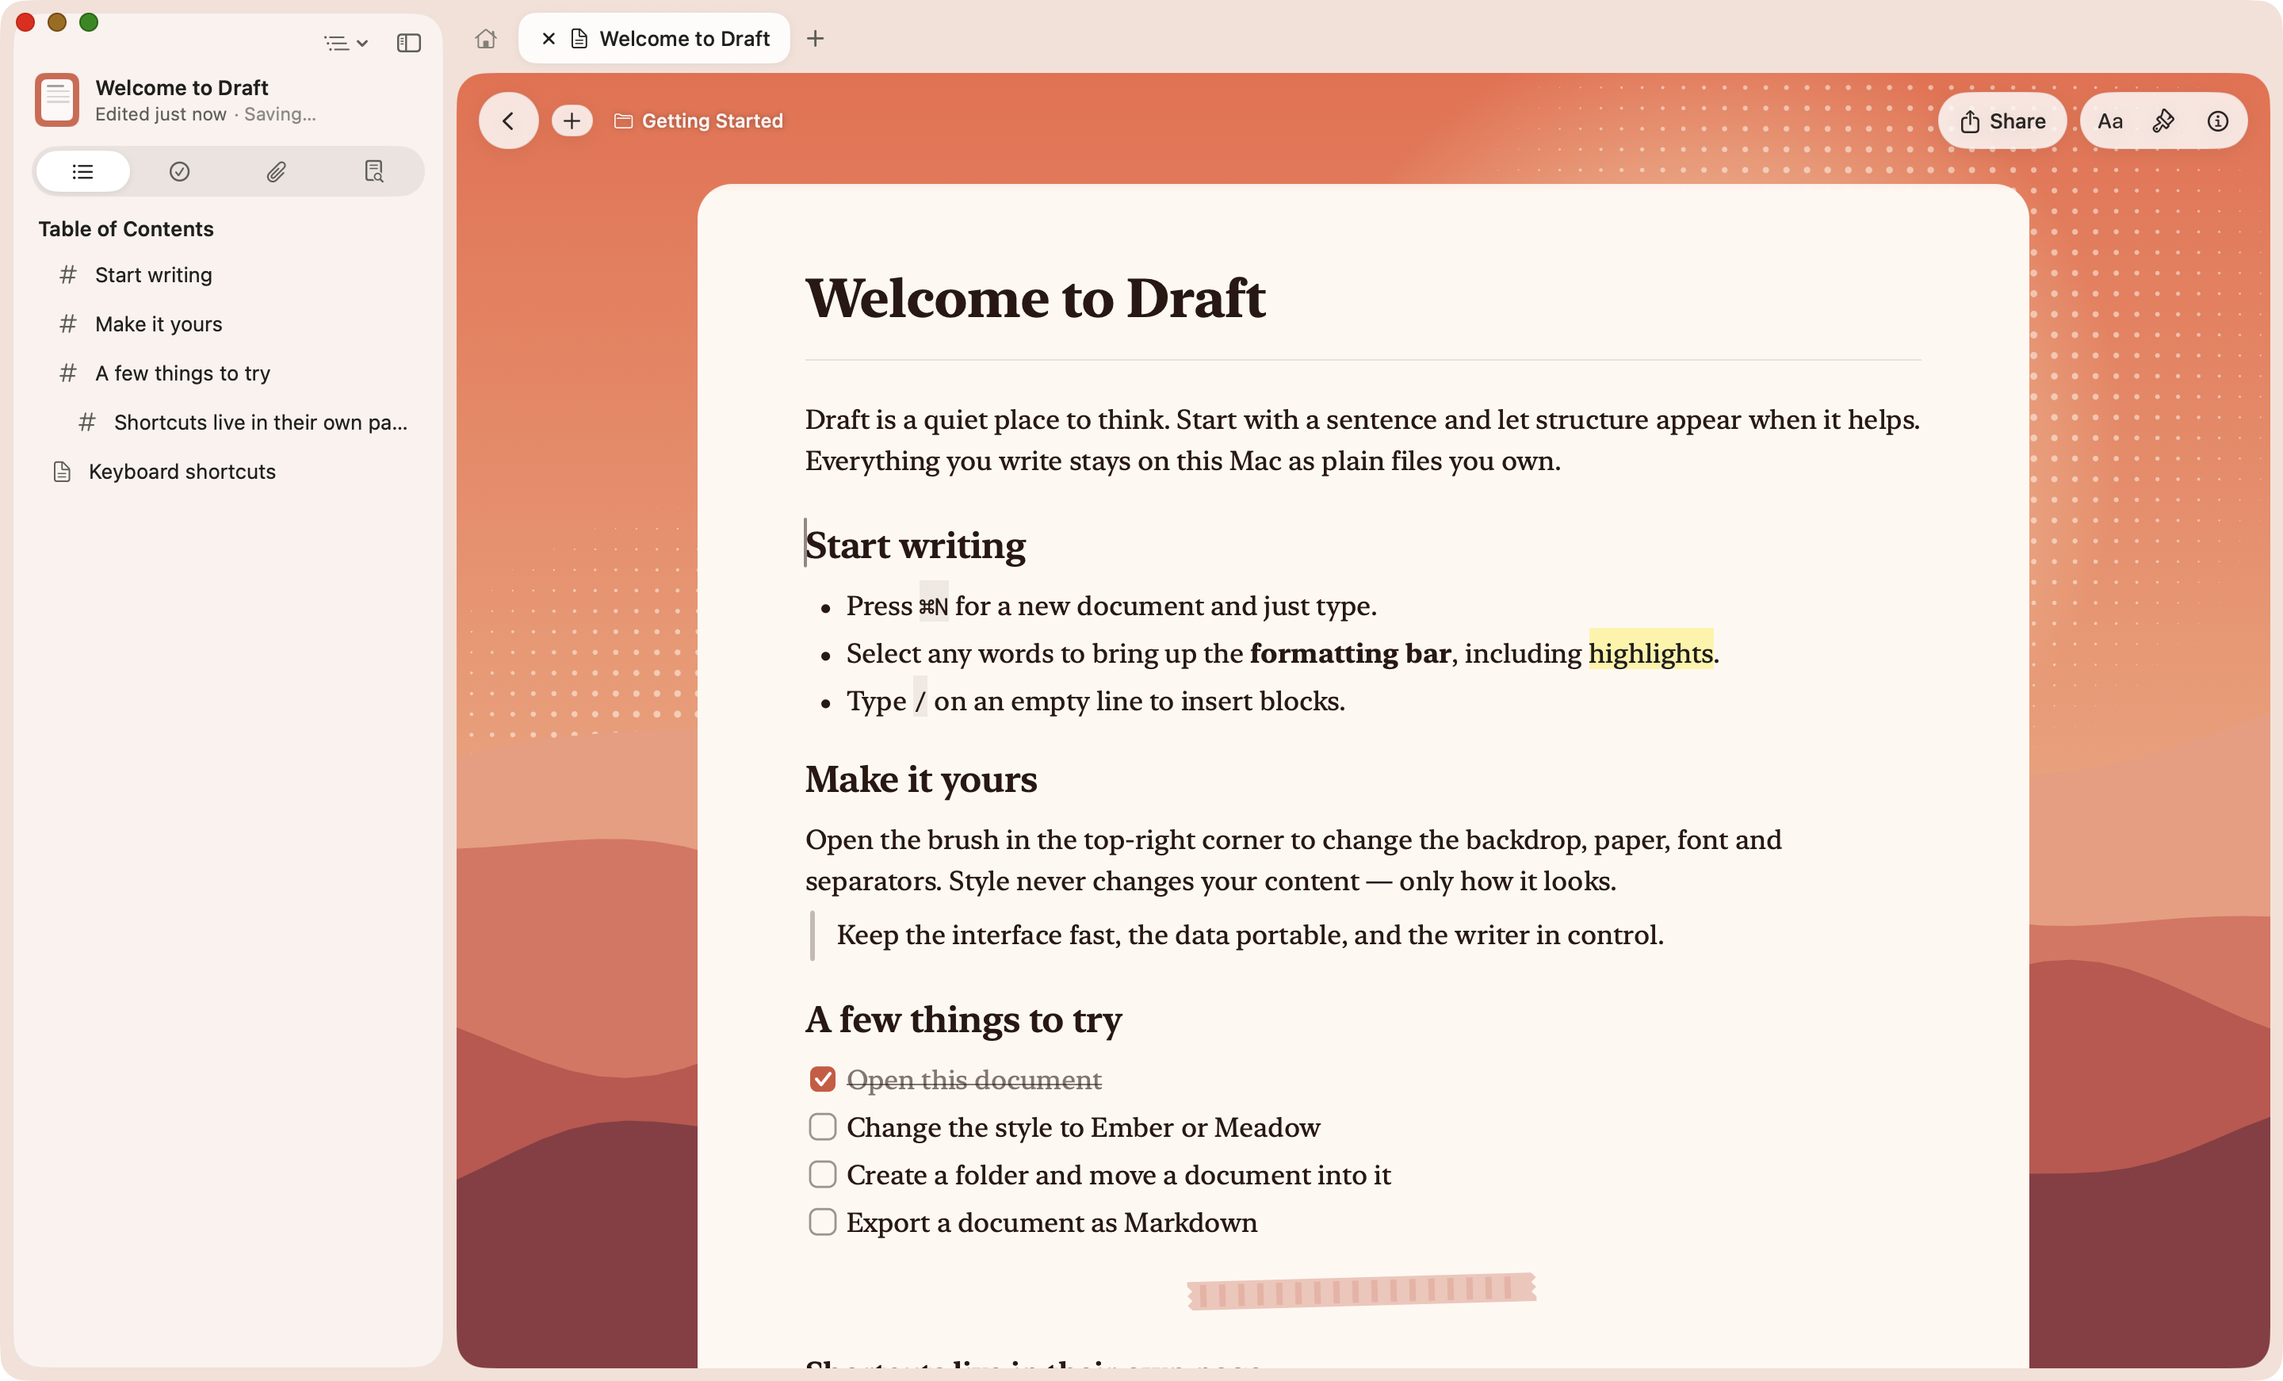
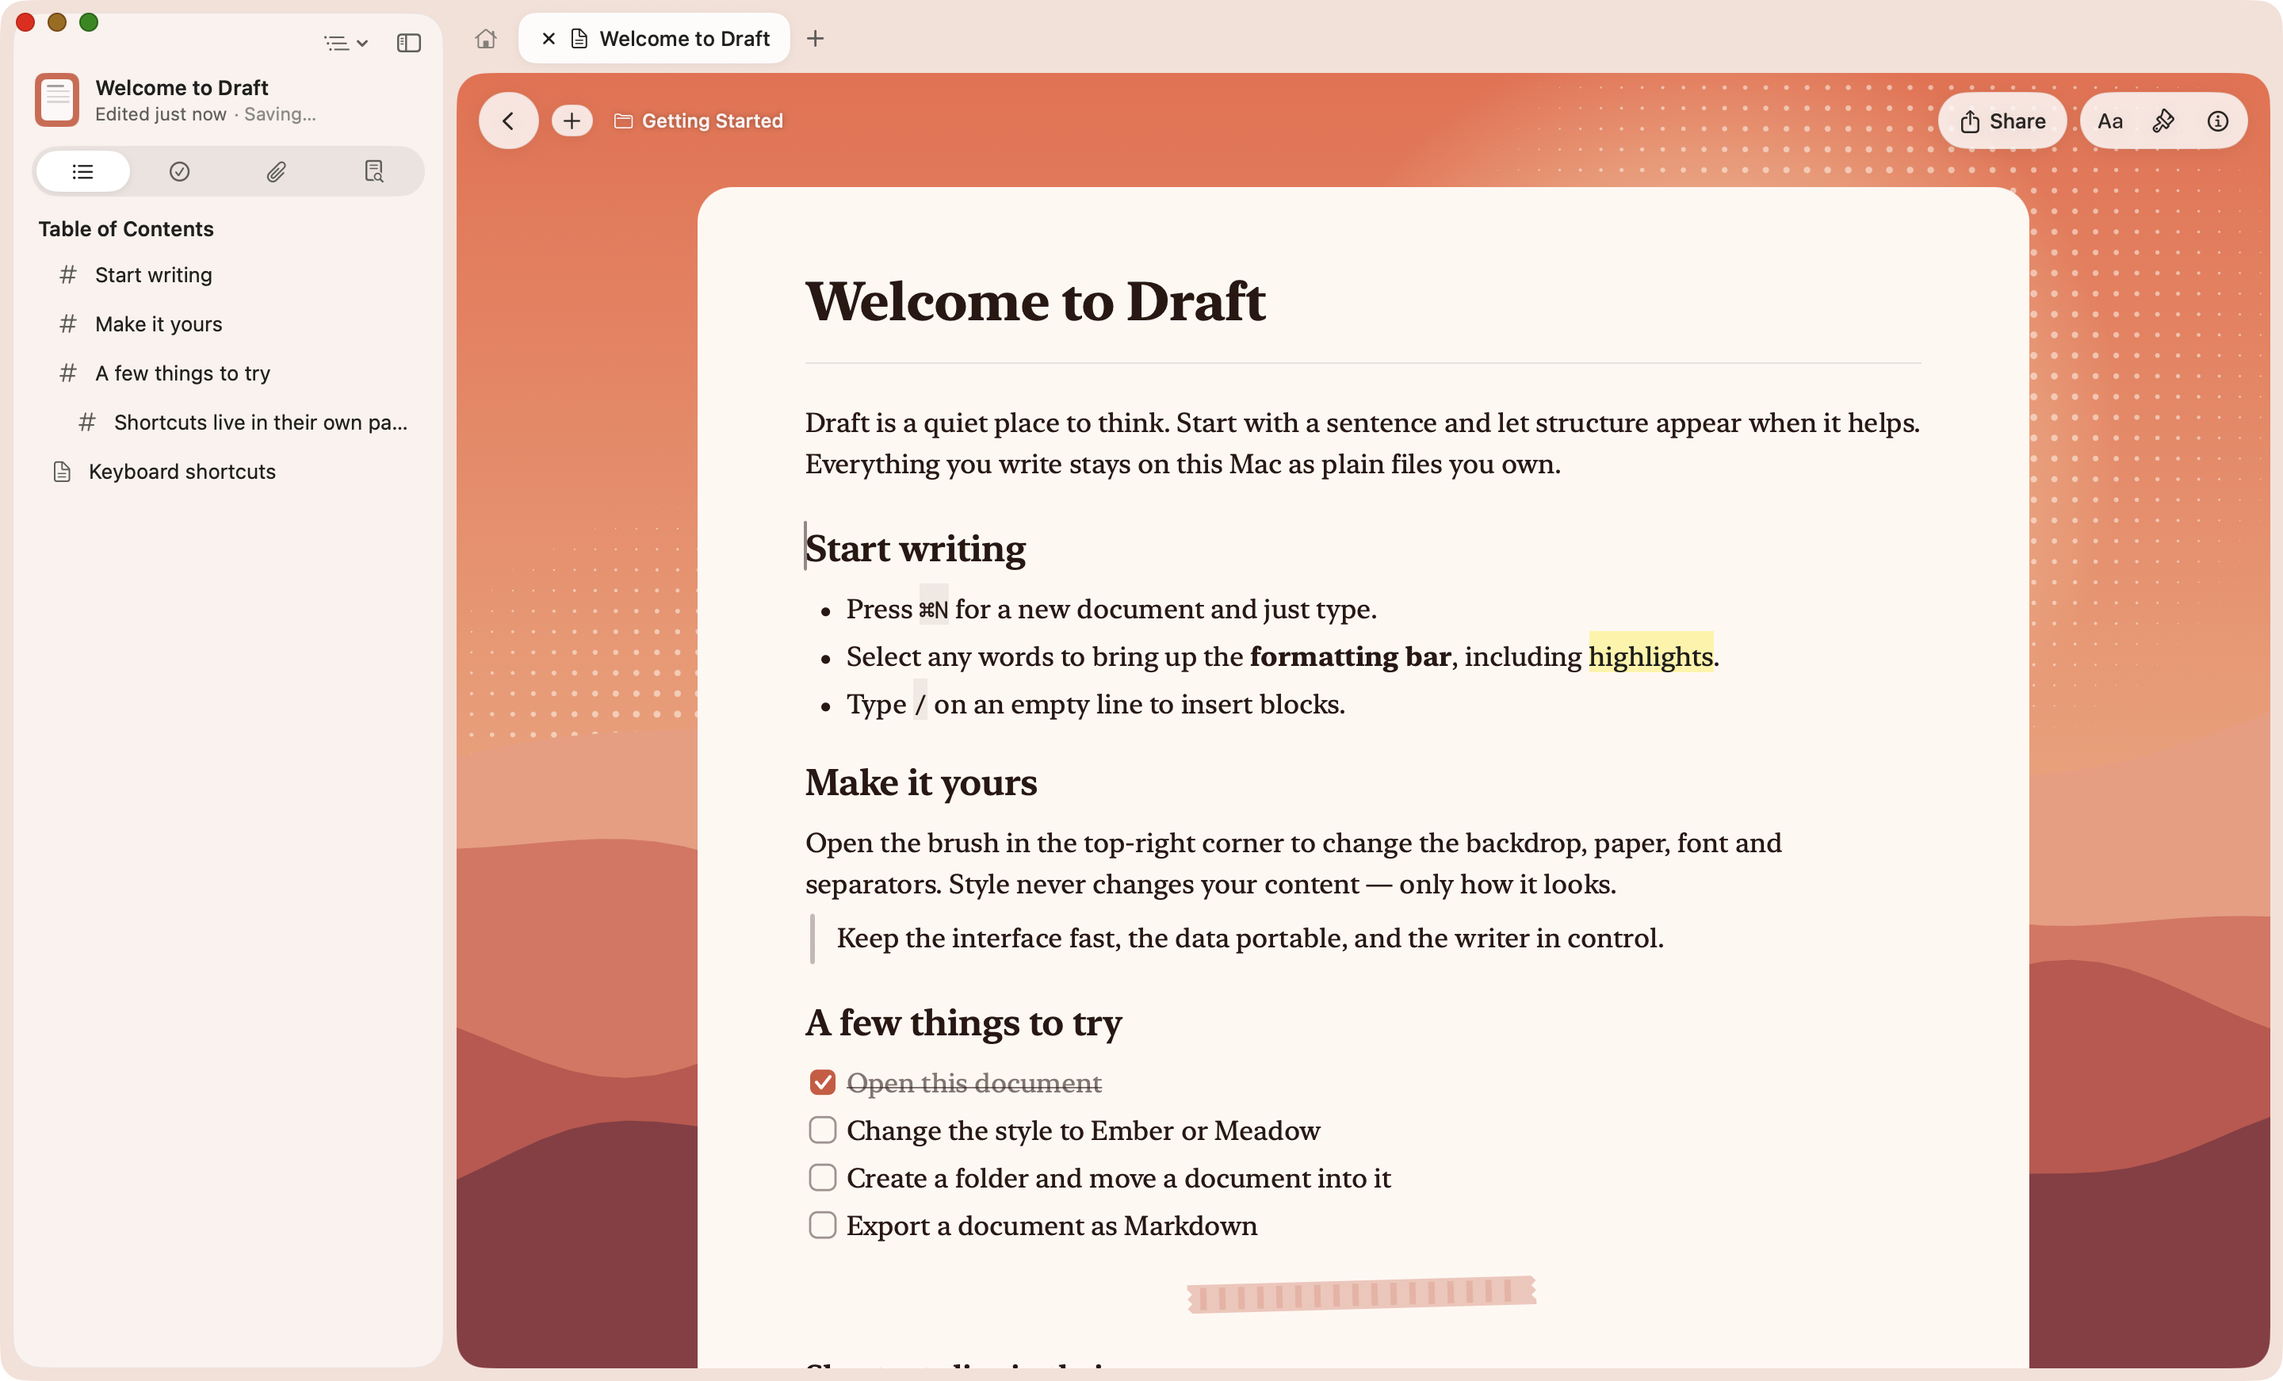
v0.2: hide stale handle and text bar in block mode; docs, roadmap and fresh screenshots

diff --git a/Sources/Draft/Automation.swift b/Sources/Draft/Automation.swift
@@ -173,10 +173,74 @@ enum Automation {
         m.openView(ViewRef(kind: "settings", section: "appearance"))
         await capture("settings-appearance-dark")
         m.setSettings { $0.theme = "light" }
-        // Narrow window
+        var checks: [String: String] = [:]
+        // Scrolled: text must start below the top controls.
+        m.setSettings { $0.libraryView = .gallery }
         m.openView(.doc(welcome.id))
-        w.setFrame(NSRect(x: 60, y: 60, width: 720, height: 860), display: true)
+        await wait(0.8)
+        if let ed = m.editors[welcome.id] {
+            ed.scrollView.contentView.scroll(to: NSPoint(x: 0, y: 260)); ed.scrollView.reflectScrolledClipView(ed.scrollView.contentView)
+            await capture("document-scrolled")
+            checks["normal.scrollTopBelowControls"] = "\(ed.bounds.height - ed.scrollView.frame.maxY)"
+            // Block selection + handle
+            let c = ed.controller
+            ed.scrollView.contentView.scroll(to: .zero)
+            w.makeFirstResponder(c.textView)
+            if let pr = c.paragraph(withId: (c.document().content ?? [])[1].id ?? "") {
+                c.textView.setSelectedRange(NSRange(location: pr.location, length: 0))
+                c.enterBlockMode(); c.stepBlockSelection(1, extend: true)
+                let r = c.layout.firstLineRect(pr)!.rect
+                ed.updateHandle(at: c.textView.convert(NSPoint(x: 10, y: r.midY + c.textView.textContainerOrigin.y), to: ed.paperView))
+                await capture("block-selection")
+                c.exitBlockMode()
+            }
+            // Backups list
+            m.flushAll()
+            m.infoTab = "backups"; m.panel = .info
+            await capture("backups-panel")
+            m.panel = nil; m.infoTab = "info"
+        }
+        // Search results
+        m.activateTab(m.library.tabs[0].id)
+        m.librarySearchOpen = true; m.librarySearch = "markdown"
+        await capture("search-results")
+        m.librarySearch = ""; m.librarySearchOpen = false
+        // Recently Deleted
+        if let morning = m.library.docs.values.first(where: { $0.title == "Morning pages" }) {
+            m.requestDelete(morning.id)
+            m.openView(ViewRef(kind: "trash"))
+            await capture("recently-deleted")
+            m.restore(morning.id)
+            m.activateTab(m.library.tabs[0].id)
+        }
+        // Narrow window: scrolled text and the slash menu at the bottom edge.
+        m.openView(.doc(welcome.id))
+        w.setFrame(NSRect(x: 60, y: 60, width: 720, height: 640), display: true)
+        await wait(0.6)
         await capture("narrow-document")
+        if let ed = m.editors[welcome.id] {
+            let c = ed.controller
+            checks["narrow.scrollTopBelowControls"] = "\(ed.bounds.height - ed.scrollView.frame.maxY)"
+            w.makeFirstResponder(c.textView)
+            c.textView.setSelectedRange(NSRange(location: (c.textView.string as NSString).length, length: 0))
+            c.textView.insertNewline(nil)
+            await type("/", into: c)
+            c.textView.scrollRangeToVisible(c.textView.selectedRange()); c.slash.position()
+            await capture("narrow-slash-menu")
+            checks["narrow.slashInside"] = ed.paperView.visibleRect.insetBy(dx: -1, dy: -1).contains(c.slash.frame) ? "yes" : "no \(c.slash.frame) \(ed.paperView.visibleRect)"
+            c.slash.close()
+            c.textView.undoManager?.undo(); c.textView.undoManager?.undo()
+            w.setFrame(NSRect(x: 60, y: 60, width: 1440, height: 900), display: true)
+            await wait(0.6)
+            c.textView.setSelectedRange(NSRange(location: (c.textView.string as NSString).length, length: 0))
+            c.textView.insertNewline(nil)
+            await type("/", into: c)
+            c.textView.scrollRangeToVisible(c.textView.selectedRange()); c.slash.position()
+            checks["normal.slashInside"] = ed.paperView.visibleRect.insetBy(dx: -1, dy: -1).contains(c.slash.frame) ? "yes" : "no"
+            await capture("slash-menu")
+            c.slash.close()
+        }
+        if let d = try? JSONSerialization.data(withJSONObject: checks, options: [.prettyPrinted, .sortedKeys]) { try? d.write(to: out.appendingPathComponent("layout-checks.json")) }
         // Export
         m.export(docIds: [welcome.id], name: "Welcome export", groupByFolder: false, to: URL(fileURLWithPath: NSTemporaryDirectory()))
         await wait(0.3)

diff --git a/Sources/Draft/LibraryView.swift b/Sources/Draft/LibraryView.swift
@@ -65,6 +65,7 @@ struct LibraryView: View {
             }
             Text(title).font(.system(size: 17, weight: .semibold)).foregroundStyle(t.text)
             Spacer()
+            if view.kind != "trash" && view.kind != "shared" {
             PillGroup {
                 PillButton(symbol: "rectangle.grid.2x2", label: "Gallery (⌃⌘1)", isActive: model.library.settings.libraryView == .gallery) { model.setSettings { $0.libraryView = .gallery } }
                 PillButton(symbol: "square.grid.3x3", label: "Grid (⌃⌘2)", isActive: model.library.settings.libraryView == .grid) { model.setSettings { $0.libraryView = .grid } }
@@ -88,6 +89,7 @@ struct LibraryView: View {
                 } label: { Image(systemName: "arrow.up.arrow.down").frame(width: 30, height: 30) }
                 .menuStyle(.borderlessButton).menuIndicator(.hidden).fixedSize().foregroundStyle(t.pillText).tint(t.pillText).tint(t.pillText)
                 .accessibilityLabel("Sort")
+            }
             }
             PillGroup {
                 Menu {

diff --git a/Sources/DraftEditor/DocumentEditorView.swift b/Sources/DraftEditor/DocumentEditorView.swift
@@ -43,6 +43,7 @@ public final class DocumentEditorView: NSView, NSTextViewDelegate {
     public let controller = EditorController()
     public let scrollView = NSScrollView()
     let paper = PaperView()
+    public var paperView: NSView { paper }
     let paperBackground = NSView()
     let coverView = NSImageView()
     public let titleView: NSTextView
@@ -195,6 +196,7 @@ public final class DocumentEditorView: NSView, NSTextViewDelegate {
         guard !inLayout else { return }
         inLayout = true
         defer { inLayout = false }
+        if !handle.isDragging { handle.isHidden = true } // the next mouse move places it again
         let width = scrollView.contentSize.width
         guard width > 0 else { return }
         let margin: CGFloat = width < 640 ? 10 : 28

diff --git a/Sources/DraftEditor/SelectionToolbar.swift b/Sources/DraftEditor/SelectionToolbar.swift
@@ -157,7 +157,7 @@ public final class SelectionToolbar: NSView {
     var shouldShow: Bool {
         let tv = controller.textView
         let sel = tv.selectedRange()
-        guard sel.length > 0, controller.overlayHost != nil else { return false }
+        guard sel.length > 0, controller.overlayHost != nil, !controller.isBlockMode else { return false }
         if let d = dismissedSelection, d == sel { return false }
         // Pure attachment selections (one image/card) have no text to format.
         if sel.length == 1, controller.storage.attribute(.attachment, at: sel.location, effectiveRange: nil) != nil { return false }

diff --git a/Sources/Draft/DocumentScreen.swift b/Sources/Draft/DocumentScreen.swift
@@ -36,7 +36,7 @@ struct DocumentScreen: View {
                         switch p {
                         case .format: FormatPanel(docId: docId)
                         case .style: StylePanel(docId: docId)
-                        case .info: InfoPanel(docId: docId)
+                        case .info: InfoPanel(docId: docId, tab: $model.infoTab)
                         case .share: SharePanel(docId: docId)
                         }
                     }

diff --git a/Tests/DraftEditorTests/BlockOpsTests.swift b/Tests/DraftEditorTests/BlockOpsTests.swift
@@ -64,6 +64,7 @@ final class BlockOpsTests: XCTestCase {
         tv.moveDownAndModifySelection(nil)
         XCTAssertEqual(c.blockSelectionIds, ["b_a", "b_b"])
         XCTAssertEqual(c.selectedBlockRange, 0...1)
+        XCTAssertFalse(c.toolbar.isVisible, "text formatting bar stays hidden for block selections")
         tv.deleteBackward(nil)
         XCTAssertFalse(c.isBlockMode)
         XCTAssertEqual(ids(), ["b_c", "b_hr", "b_d"])

diff --git a/Sources/DraftEditor/LayoutManager.swift b/Sources/DraftEditor/LayoutManager.swift
@@ -59,7 +59,7 @@ public final class DraftLayoutManager: NSLayoutManager {
         return rect.isNull ? nil : rect
     }
 
-    func firstLineRect(_ pr: NSRange) -> (rect: NSRect, used: NSRect)? {
+    public func firstLineRect(_ pr: NSRange) -> (rect: NSRect, used: NSRect)? {
         let gr = glyphRange(forCharacterRange: pr, actualCharacterRange: nil)
         if gr.length == 0 { return nil }
         var eff = NSRange()

diff --git a/Sources/DraftEditor/BlockHandle.swift b/Sources/DraftEditor/BlockHandle.swift
@@ -72,7 +72,7 @@ final class BlockHandleView: NSView {
 
 extension DocumentEditorView {
     /// Show the handle next to the block under `p` (paper coordinates).
-    func updateHandle(at p: NSPoint) {
+    public func updateHandle(at p: NSPoint) {
         let tv = controller.textView
         guard !handle.isDragging else { return }
         let local = tv.convert(p, from: paper)

diff --git a/Sources/DraftEditor/SlashMenu.swift b/Sources/DraftEditor/SlashMenu.swift
@@ -74,7 +74,7 @@ public final class SlashMenu: NSView {
         needsDisplay = true
     }
 
-    func position() {
+    public func position() {
         guard let host = controller.overlayHost else { return }
         let tv = controller.textView
         let gr = controller.layout.glyphRange(forCharacterRange: NSRange(location: anchor, length: 1), actualCharacterRange: nil)

diff --git a/Sources/Draft/AppModel.swift b/Sources/Draft/AppModel.swift
@@ -49,6 +49,7 @@ final class AppModel: ObservableObject {
     @Published var findQuery = ""
     @Published var findCount = 0
     @Published var findFocusNonce = 0
+    @Published var infoTab = "info"
 
     let vault = Vault(dir: Vault.defaultURL())
     private(set) var editors: [String: DocumentEditorView] = [:]

diff --git a/Sources/Draft/Panels.swift b/Sources/Draft/Panels.swift
@@ -373,7 +373,7 @@ struct InfoPanel: View {
     @EnvironmentObject var model: AppModel
     @Environment(\.tokens) var t
     let docId: String
-    @State private var tab = "info"
+    @Binding var tab: String
 
     var body: some View {
         let m = model.library.docs[docId]

diff --git a/docs/ROADMAP.md b/docs/ROADMAP.md
@@ -63,26 +63,40 @@ sharing, publishing (need a proven local format — v1.x/v2.0); signing/notariza
 
 ---
 
-## v0.2 — "Writer's desk" (macOS)
+## v0.2 — "Writer's desk" (macOS) ✅ requested scope done
 
 **Theme.** Single-document writing that feels finished and safe.
 
-- ✅ Block gutter handle, drag reorder with insertion line, block selection (Esc, ⇧↑/↓), delete,
-  Move up/down/top/bottom (⌥⌘↑/↓). ⬜ Block context menu (turn into, duplicate, copy link).
-- ⬜ Group selected blocks into a page (⌘G) / ungroup; move blocks to another doc.
-- ⬜ Toggle list (`+ `), callout block, page break (`===`), strong/dotted/three-dot separators, `x ` task trigger.
-- ✅ Rich paste from other apps (HTML/RTF → blocks), Markdown paste, multi-line plain paste that splits blocks.
-- ✅ Recently Deleted (tombstones for documents *and* nested pages), restore, empty.
-- ✅ Local snapshots: automatic (time/size based) + "View Backups" + restore.
-- ⬜ Cover crop/reposition (ratios, focal point) as data.
-- ⬜ Tab state across restarts (scroll + caret), real back/forward stacks.
-- ✅ Space Search: one result per doc, match count, snippet, jump to the first match (Find in Page pre-filled).
-- ⬜ Image block: resize, caption, alt text; file attachment block (QuickLook).
+- ✅ Block gutter handle, drag reorder with insertion line and autoscroll, block selection (Esc,
+  ↑/↓, ⇧↑/↓), delete blocks, Move up/down/top/bottom (⌥⌘↑/↓, ⌃⌥⌘↑/↓). One undo per operation.
+- ✅ Paste: multi-line text → one block per line with Markdown recognized; RTF/HTML → headings,
+  lists and marks; Draft → Draft keeps blocks and marks; surrounding block keeps its id.
+- ✅ Recently Deleted for documents *and* nested pages: Undo toast, Restore, Delete Permanently,
+  Empty, 30-day purge.
+- ✅ Automatic local backups (≤ 1 per 10 min while editing, 30 kept) with View Backups → Restore.
+- ✅ Space Search: one result per doc, match count, highlighted snippet, opens the doc on the first
+  match (Find in Page pre-filled).
+- ✅ Layout: text scrolls only below the document controls; the slash menu flips/shrinks to stay in
+  the window (checked at 1440×900 and 720×640).
 
-**Prerequisites.** Snapshot store (`history/<docId>/`), search index separate from library index,
-block-selection mode in the editor. **Data risk.** Snapshot growth → retention policy + Stats.
-**Release gate.** 10,000-block document keystroke latency < 16 ms p95 on M1; undo covers move/delete;
-deleting and restoring a nested page keeps child ids.
+**Data/format.** `DocMeta.deletedAt` (optional, schema 1 compatible); `history/<docId>/<ms>.json`
+backups; `searchText` keeps original case (derived, rebuilt on save).
+**Release gate.** Met: undo covers move/delete/paste; deleting and restoring a nested page keeps
+child ids; 56 tests + smoke test (restart, trash, backups, search jump). **Not yet measured:**
+10,000-block keystroke latency — moved to v0.2.1 with the remaining items.
+
+## v0.2.1 — "Writer's desk, continued" (macOS)
+
+- ⬜ Block context menu (turn into, duplicate, copy link); group selected blocks into a page (⌘G) /
+  ungroup; move blocks to another doc.
+- ⬜ Toggle list (`+ `), callout block, page break (`===`), strong/dotted/three-dot separators, `x ` task trigger.
+- ⬜ Cover crop/reposition (ratios, focal point) as data.
+- ⬜ Tab state across restarts (scroll + caret), back/forward stacks.
+- ⬜ Image block: resize, caption, alt text; file attachment block (QuickLook).
+- ⬜ Performance: incremental block moves (today the document is rebuilt per move), 10k-block budget.
+
+**Gate.** 10,000-block document keystroke latency < 16 ms p95 on M1; every new block type
+round-trips through Markdown export and import.
 
 ## v0.3 — "Linked thinking" (macOS)
 
@@ -169,8 +183,9 @@ Assistant (opt-in, bring-your-own or local model, never required); local API/MCP
 
 ## Next smallest coherent slice (prioritized by user value)
 
-1. **Block gutter + block selection + drag reorder + move up/down** — the largest remaining gap in
-   "feels like a block editor", and the prerequisite for group-into-page.
-2. **Recently Deleted + automatic local snapshots** — today deletion is permanent (with confirmation).
-3. **Space Search with jump-to-block** — library search finds documents but does not land on the match.
-4. **Rich/multi-line paste** that creates proper blocks from other apps.
+*(updated after v0.2)*
+
+1. **Block context menu + group into page (⌘G)** — builds directly on block selection.
+2. **Callout, toggle list and page-break blocks** with their Markdown triggers.
+3. **Performance pass**: incremental moves and a measured 10k-block budget.
+4. **Tab state across restarts** (scroll and caret per tab).
